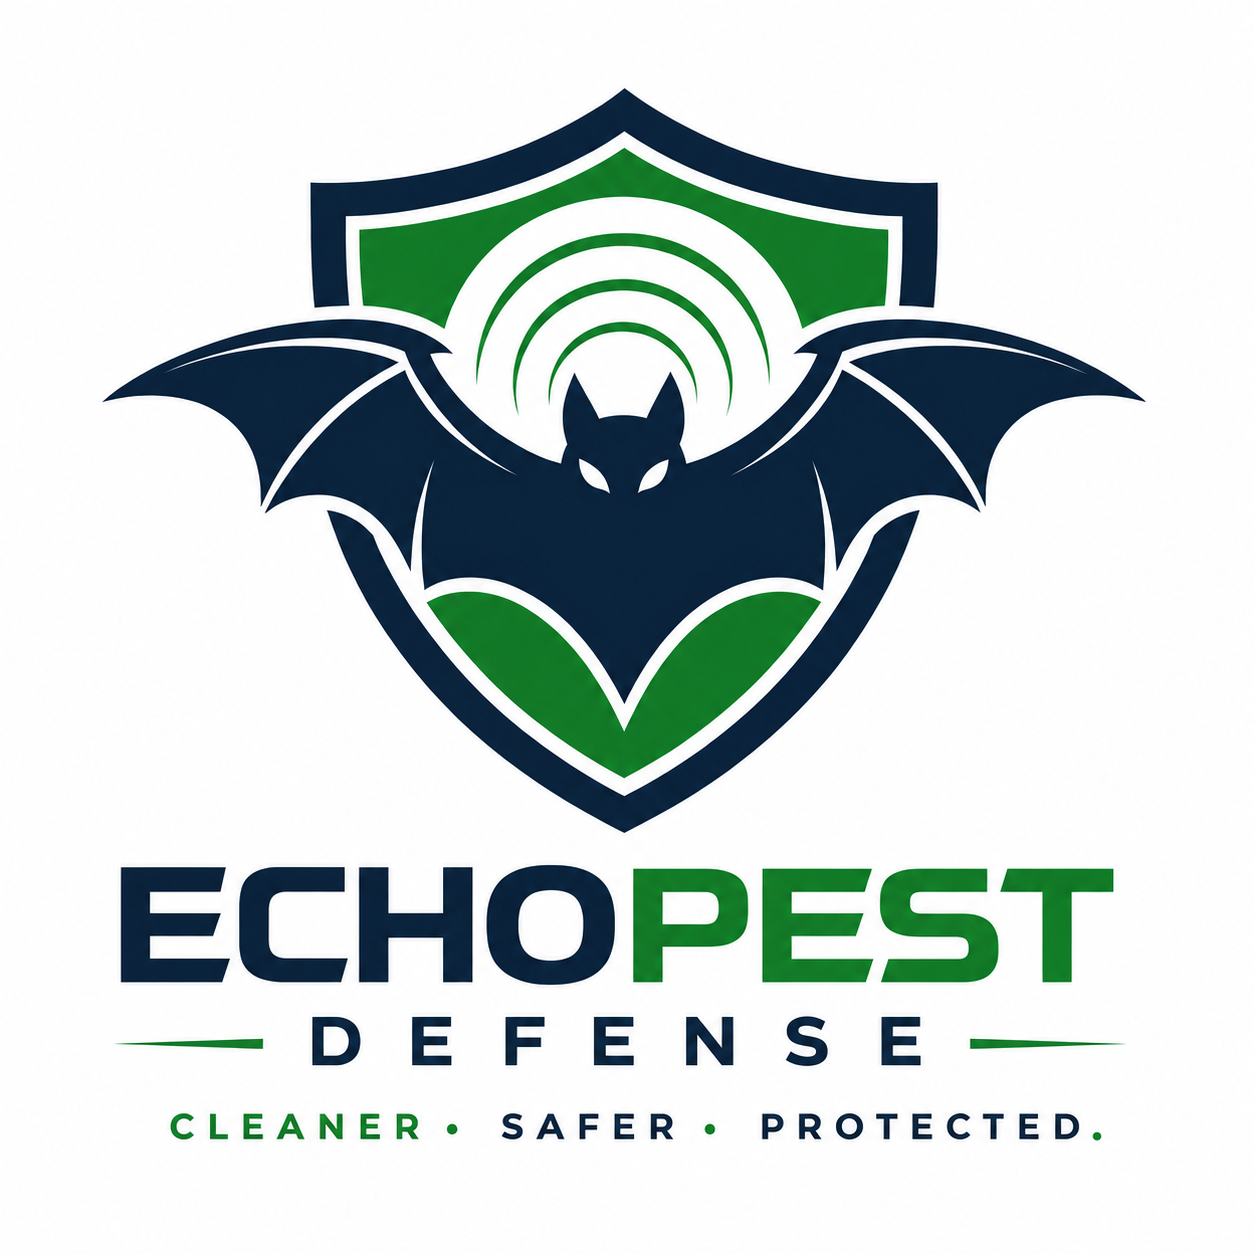
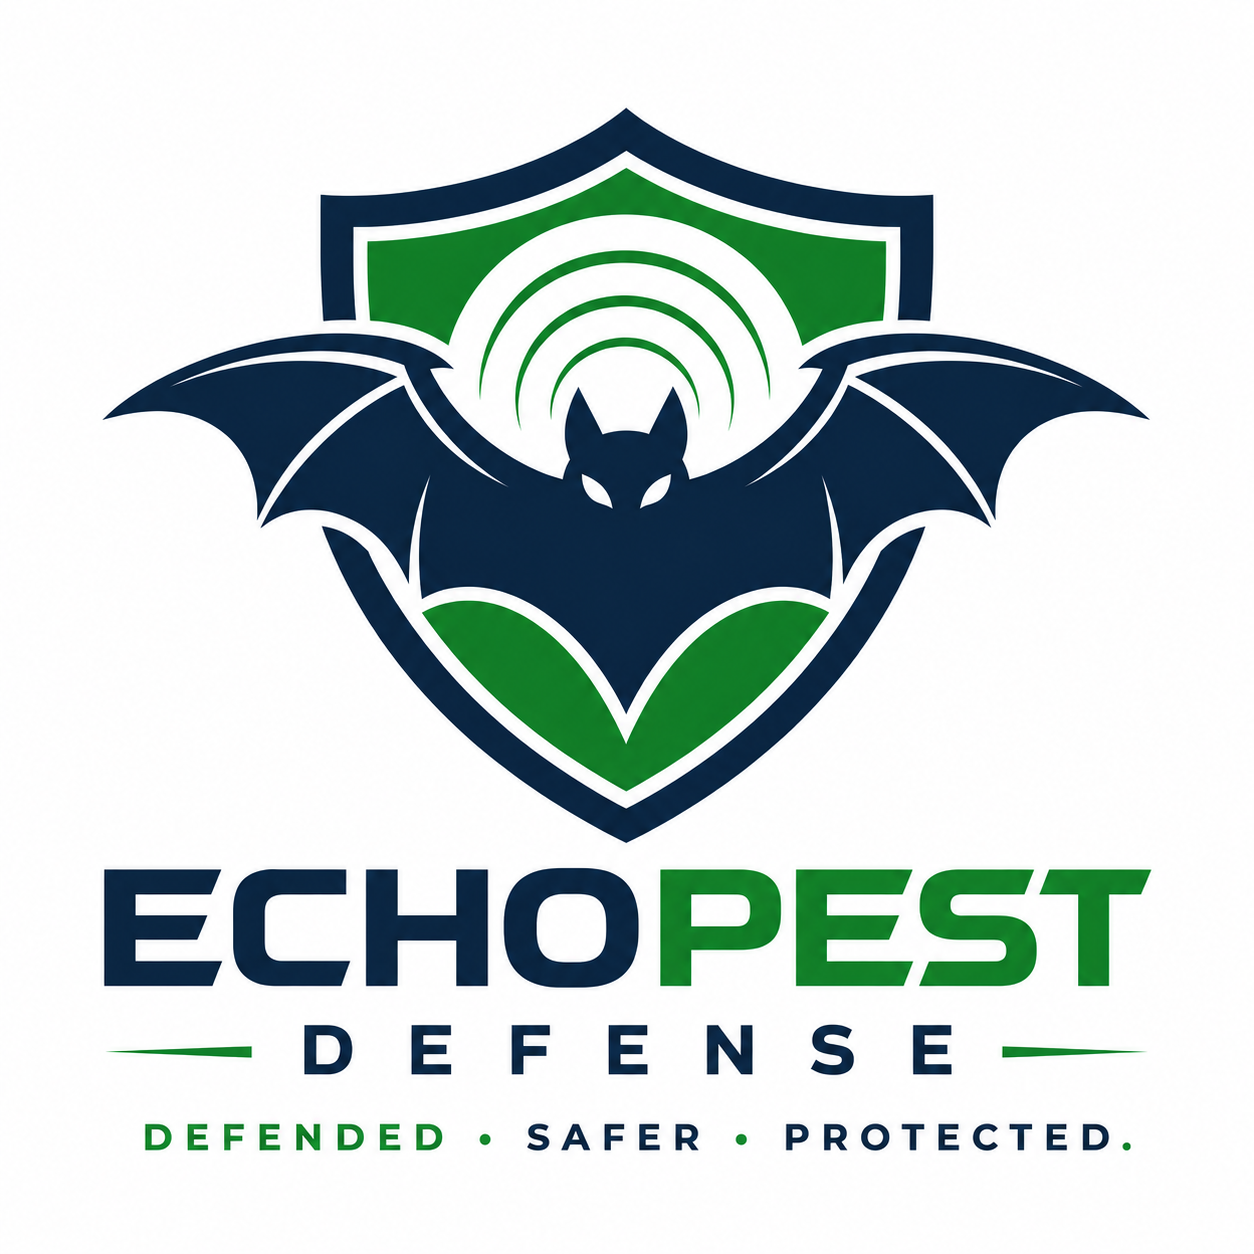
update

Changed region(s): [[0.0622, 0.0622, 0.933, 0.933]]

diff --git a/pages/index.tsx b/pages/index.tsx
@@ -16,7 +16,7 @@ export default function Home() {
           {/* Left Side */}
           <div className="md:w-1/2 space-y-6 text-center md:text-left animate-fadeIn">
             <h1 className="text-6xl font-extrabold leading-tight text-blue-700">
-              Cleaner. Safer. Protected.
+              Defended. Safer. Protected.
             </h1>
             <p className="text-xl leading-relaxed text-gray-700 max-w-md">
               Expert pest control that keeps your home safe, clean, and worry‑free.
